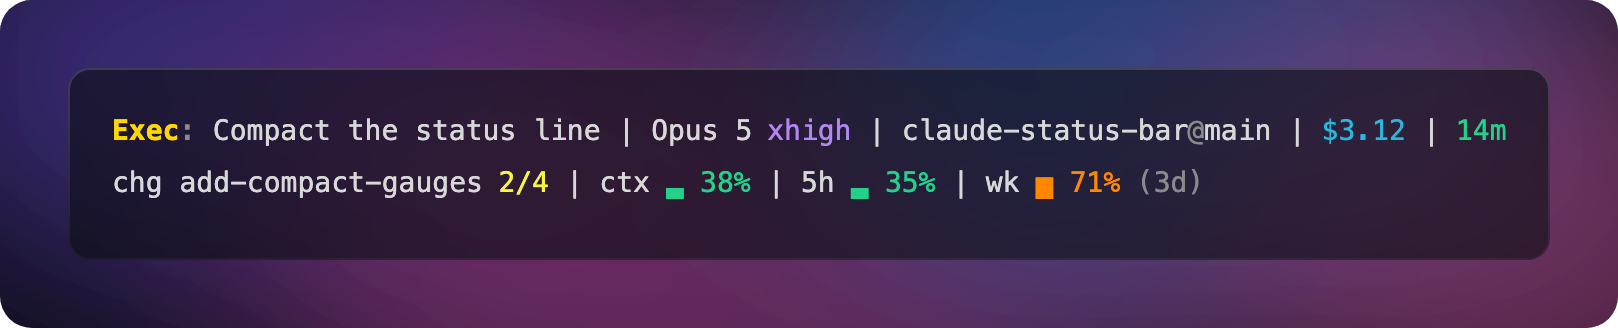
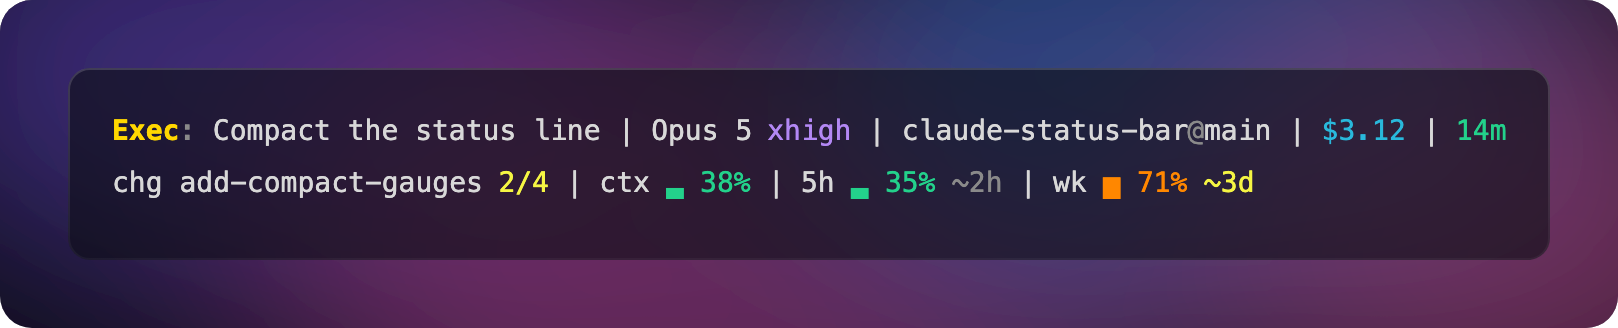
feat(statusline): add paced reset countdowns to rate limits
Every rate limit now carries its reset in one unit - ~2d, ~3h, or ~45m once
under an hour - instead of hiding the countdown until the limit passed 60%. At
59% used the number was suppressed exactly where it started to matter.

A percentage alone does not say whether you are in trouble, so the countdown is
coloured by the window's own burn rate: amber once time left exceeds quota left,
meaning this pace hits the cap before the reset. Grey stays the on-pace default
and needs no history to compute. Amber cannot fire under 50% used or before a
fifth of the window has elapsed, so a spiky first hour does not paint the whole
session. Past 95% the countdown is no longer a warning but the ETA back to work,
so it takes the emphasis the blinking percentage cannot carry.

The screenshot is regenerated: its weekly limit is one of the amber cases.

Changed region(s): [[0.5871, 0.5183, 0.7726, 0.6098]]

diff --git a/bin/claude-code-status.test.js b/bin/claude-code-status.test.js
@@ -57,7 +57,7 @@ const STDIN_JSON = JSON.stringify({
   cost: { total_duration_ms: 600000, total_api_duration_ms: 20000 },
 });
 
-function render() {
+function render(payload = STDIN_JSON) {
   return new Promise((resolve, reject) => {
     const child = spawn(process.execPath, [BIN], {
       env: { ...process.env, HOME: home },
@@ -67,7 +67,7 @@ function render() {
     child.stdout.on('data', d => out += d);
     child.on('error', reject);
     child.on('close', () => resolve(out));
-    child.stdin.end(STDIN_JSON);
+    child.stdin.end(typeof payload === 'string' ? payload : JSON.stringify(payload));
   });
 }
 
@@ -150,6 +150,56 @@ async function main() {
     'health state file was created');
   assert.ok(!fs.existsSync(path.join(home, '.claude', 'health-reminders.json.activity')),
     'health activity sidecar was created');
+  // rate limits show ultra-compact reset countdown: ~3h, ~2d, and minutes ~45m when < 1h
+  const nowSec = Math.floor(Date.now() / 1000);
+  const rlOut = await render({
+    ...JSON.parse(STDIN_JSON),
+    rate_limits: {
+      five_hour: { used_percentage: 41, resets_at: nowSec + 3 * 3600 },
+      seven_day: { used_percentage: 59, resets_at: nowSec + 2 * 86400 },
+    },
+  });
+  const rlPlain = rlOut.replace(/\x1b\[[0-9;]*m/g, '');
+  assert.ok(rlPlain.includes('5h ▃ 41% ~3h'), `5h ~3h reset missing: ${JSON.stringify(rlPlain)}`);
+  assert.ok(rlPlain.includes('wk ▅ 59% ~2d'), `wk ~2d reset missing: ${JSON.stringify(rlPlain)}`);
+  assert.ok(rlOut.includes('\x1b[38;5;245m~3h\x1b[0m'), `5h reset not colored dim grey: ${JSON.stringify(rlOut)}`);
+
+  // when less than 1h remains, minutes are shown (~45m)
+  const minOut = (await render({
+    ...JSON.parse(STDIN_JSON),
+    rate_limits: {
+      five_hour: { used_percentage: 92, resets_at: nowSec + 45 * 60 },
+    },
+  })).replace(/\x1b\[[0-9;]*m/g, '');
+  assert.ok(minOut.includes('5h ▇ 92% ~45m'), `minutes (<1h) reset missing: ${JSON.stringify(minOut)}`);
+
+  // pace: the same 88% is grey when the window is nearly over (it will not tip) and amber when
+  // three hours remain at that burn (88% of a 5h window spent in its first 2h projects to 220%)
+  const paceOut = await render({
+    ...JSON.parse(STDIN_JSON),
+    rate_limits: { five_hour: { used_percentage: 88, resets_at: nowSec + 3 * 3600 } },
+  });
+  assert.ok(paceOut.includes('\x1b[33m~3h\x1b[0m'), `off-pace reset not amber: ${JSON.stringify(paceOut)}`);
+  const onPaceOut = await render({
+    ...JSON.parse(STDIN_JSON),
+    rate_limits: { five_hour: { used_percentage: 88, resets_at: nowSec + 30 * 60 } },
+  });
+  assert.ok(onPaceOut.includes('\x1b[38;5;245m~30m\x1b[0m'), `on-pace reset not grey: ${JSON.stringify(onPaceOut)}`);
+
+  // a spiky start must not paint the bar amber: under 50% used the projection is not a signal
+  const earlyOut = await render({
+    ...JSON.parse(STDIN_JSON),
+    rate_limits: { five_hour: { used_percentage: 30, resets_at: nowSec + 4 * 3600 } },
+  });
+  assert.ok(earlyOut.includes('\x1b[38;5;245m~4h\x1b[0m'), `early burn should stay grey: ${JSON.stringify(earlyOut)}`);
+
+  // exhausted: the countdown stops being a warning and becomes the ETA back to work, so it leads
+  const doneOut = await render({
+    ...JSON.parse(STDIN_JSON),
+    rate_limits: { five_hour: { used_percentage: 100, resets_at: nowSec + 80 * 60 } },
+  });
+  assert.ok(doneOut.includes('\x1b[1;38;5;203m~1h\x1b[0m'), `exhausted reset not highlighted: ${JSON.stringify(doneOut)}`);
+
   console.log('ALL TESTS PASSED');
 }
 

diff --git a/bin/claude-code-status.js b/bin/claude-code-status.js
@@ -31,7 +31,7 @@ process.stdin.on('end', () => {
       return `${c}${g} ${pct}%\x1b[0m`;
     };
 
-    // "2d3h" / "4h20m" / "35m" — shared by the rate-limit reset and the phase's time-in-phase
+    // "2d3h" / "4h20m" / "35m" — time-in-phase
     const dur = (min) => {
       const h = Math.floor(min / 60), m = min % 60;
       if (h >= 24) {
@@ -40,7 +40,30 @@ process.stdin.on('end', () => {
       }
       return h > 0 ? `${h}h${m ? m + 'm' : ''}` : `${m}m`;
     };
-    const reset = (epoch) => (epoch ? dur(Math.max(0, Math.round((epoch * 1000 - Date.now()) / 60000))) : '');
+
+    const minsLeft = (epoch) => (epoch ? Math.max(0, Math.round((epoch * 1000 - Date.now()) / 60000)) : null);
+
+    // Ultra-compact rate-limit reset: "~2d" (>=24h), "~3h" (>=1h), "~45m" (<1h)
+    const reset = (min) => {
+      if (min == null) return '';
+      if (min < 60) return `~${min}m`;
+      if (min >= 1440) return `~${Math.round(min / 1440)}d`;
+      const h = Math.round(min / 60);
+      return h >= 24 ? '~1d' : `~${h}h`;
+    };
+
+    // The countdown's meaning flips with pace: 88% used is reassuring with 40m left and a warning
+    // with 3h left. Colour carries that at zero extra width. The window's own elapsed share is the
+    // burn rate — no history needed — so amber means "this pace hits the cap before it resets".
+    // Under 50% the projection is noise (a spiky first hour would paint the whole session amber),
+    // and past 95% the countdown stops being a warning and becomes the ETA back to work.
+    const RESET_GREY = '\x1b[38;5;245m';
+    const resetTone = (pct, min, windowMin) => {
+      if (pct >= 95) return '\x1b[1;38;5;203m';
+      const elapsed = windowMin - min;
+      if (pct >= 50 && elapsed >= windowMin * 0.2 && (pct * windowMin) / elapsed >= 100) return '\x1b[33m';
+      return RESET_GREY;
+    };
 
     // Animated rainbow (cycles each render)
     const rainbow = (text) => {
@@ -234,12 +257,12 @@ process.stdin.on('end', () => {
     const L2 = [];
     if (change) L2.push(change);
     const rl = d.rate_limits;
-    const limitStat = (label, w) => {
+    const limitStat = (label, w, windowMin) => {
       if (w?.used_percentage == null) return;
       const p = Math.round(w.used_percentage);
-      // "(2d)" next to a 43% limit is noise; it only becomes actionable as the limit gets close.
-      const r = p >= 60 ? reset(w.resets_at) : '';
-      L2.push(`${label} ${gauge(p)}${r ? ` \x1b[38;5;245m(${r})\x1b[0m` : ''}`);
+      const left = minsLeft(w.resets_at);
+      const r = reset(left);
+      L2.push(`${label} ${gauge(p)}${r ? ` ${resetTone(p, left, windowMin)}${r}\x1b[0m` : ''}`);
     };
     const rem = d.context_window?.remaining_percentage;
     if (rem != null) {
@@ -247,8 +270,8 @@ process.stdin.on('end', () => {
       const u = Math.round(Math.max(0, Math.min(100, 100 - rem)));
       L2.push(`ctx ${gauge(u)}`);
     }
-    limitStat('5h', rl?.five_hour);
-    limitStat('wk', rl?.seven_day);
+    limitStat('5h', rl?.five_hour, 300);
+    limitStat('wk', rl?.seven_day, 10080);
     if (tps) L2.push(tps);
 
     process.stdout.write(`${L1.join(' | ')}\n${L2.join(' | ')}`);

diff --git a/README.md b/README.md
@@ -127,7 +127,7 @@ run.
 
 ```
 Exec 40m: Compact the status bar | Fable 5 xhigh | claude-status-bar@master | $3.12 | 55m
-chg add-compact-gauges 2/4 | ctx ▁ 8% | 5h ▃ 35% | wk ▆ 71% (3d)
+chg add-compact-gauges 2/4 | ctx ▁ 8% | 5h ▃ 35% ~2h | wk ▆ 71% ~3d
 ```
 
 | Line | Shows |
@@ -137,8 +137,24 @@ chg add-compact-gauges 2/4 | ctx ▁ 8% | 5h ▃ 35% | wk ▆ 71% (3d)
 
 Each meter is one glyph off the `▁▂▃▄▅▆▇█` ramp plus its number, colored together —
 green under 40%, yellow, orange, red at 80% (the auto-compact threshold), blinking
-red at 95%. A reset countdown only appears once that limit is past 60%, where it
-starts to matter.
+red at 95%. Each rate limit also carries a reset countdown in one unit: `~Xd`, `~Xh`,
+or `~Xm` once under an hour.
+
+### The countdown's color is the pace
+
+A percentage alone does not say whether you are in trouble: 88% of the 5-hour window is
+reassuring with 40 minutes left and a warning with 3 hours left. So the countdown is colored by
+the window's own burn rate — used share against elapsed share, no history needed — and costs no
+extra width:
+
+| Color | Means |
+|-------|-------|
+| grey `245` | on pace — this rate lands under the cap before the window resets |
+| amber | this rate hits the cap **before** the reset; slow down, switch model, or wait |
+| bold coral, at ≥95% | already spent: the countdown is no longer a warning, it is your ETA back to work |
+
+Amber needs 50% used before it can fire, so a spiky first hour does not paint the whole session
+amber, and it needs a fifth of the window elapsed before the projection means anything.
 
 The `chg` segment tracks `openspec/changes/`: `2/4` is checked tasks, `✓` means every
 box is ticked and it is ready to `/opsx:archive`, a lone `·` is a proposal whose
